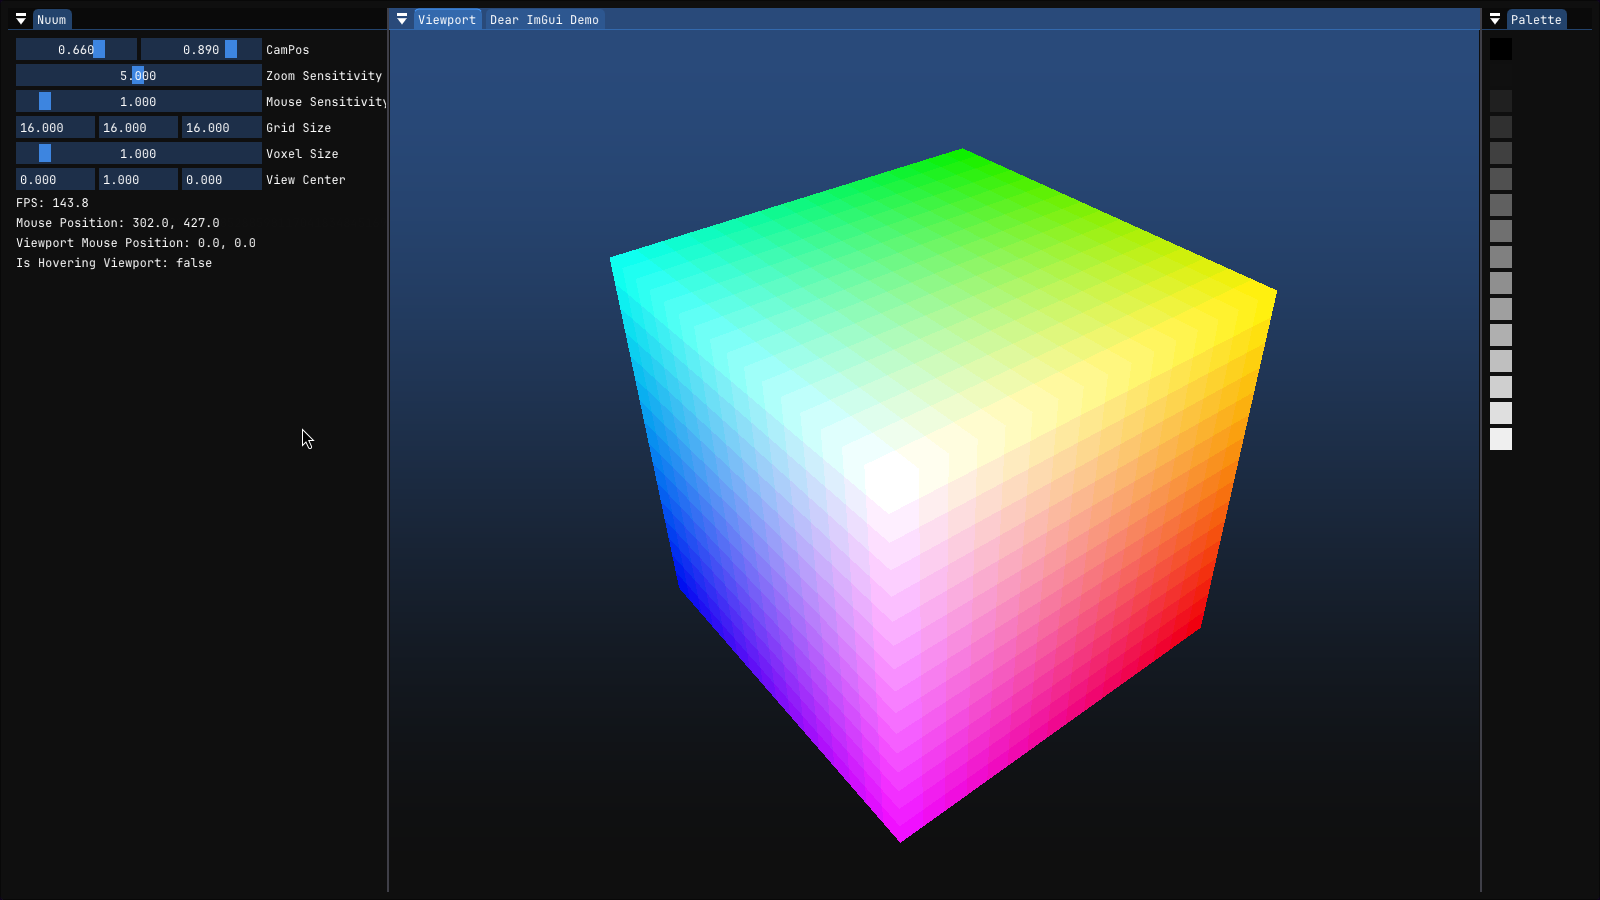
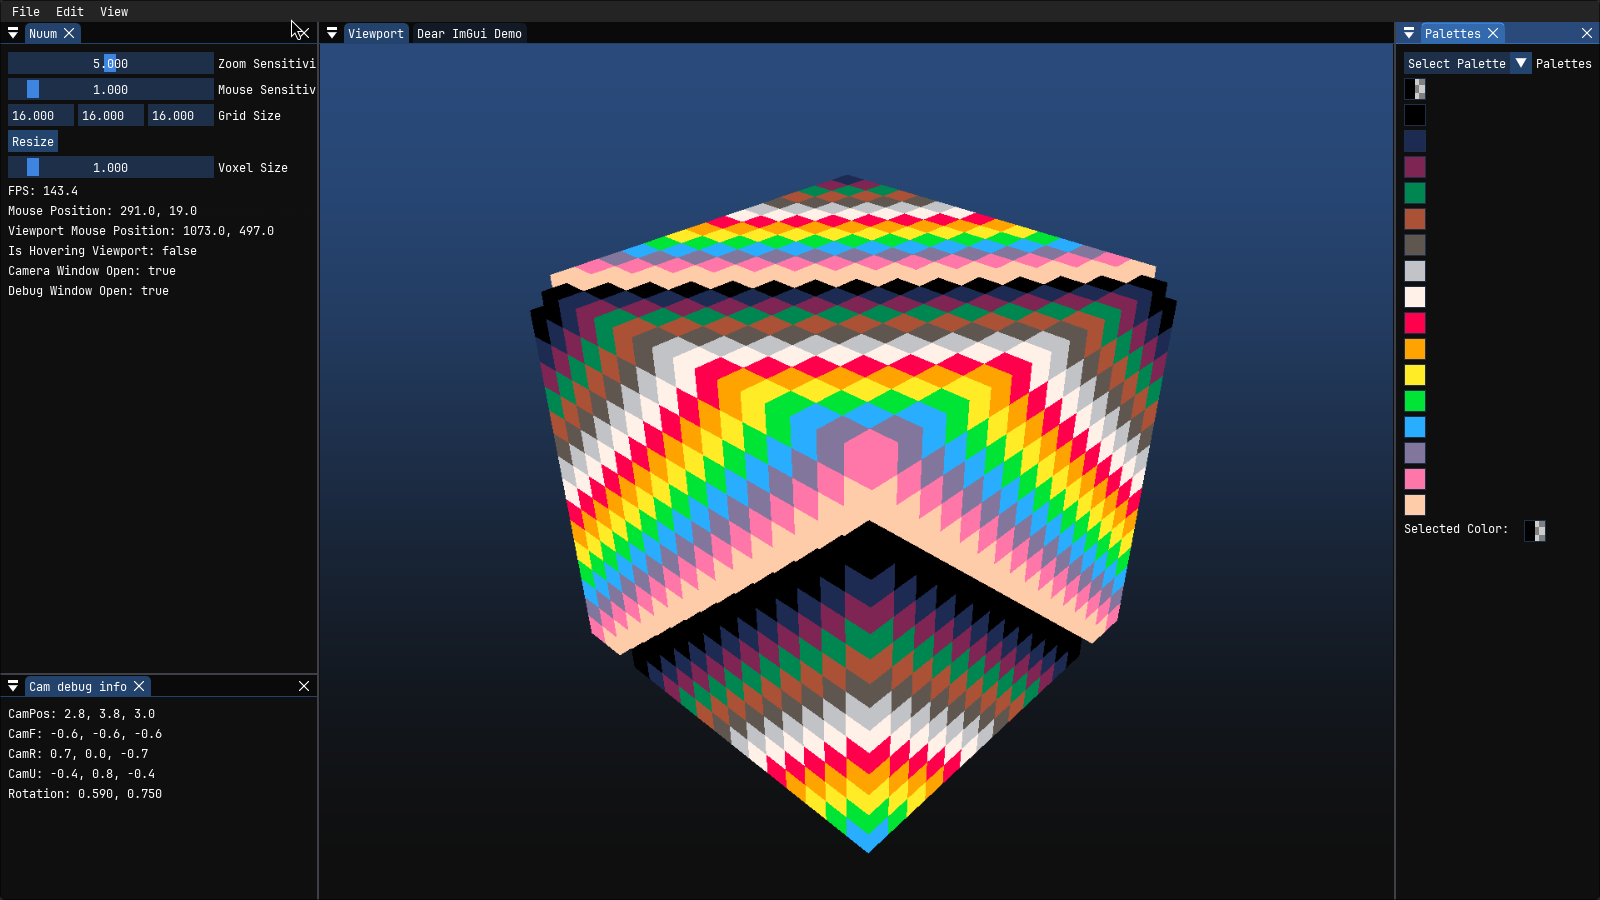
feat: Dynamic Palette Colors

diff --git a/src/PaletteManager.cpp b/src/PaletteManager.cpp
@@ -1,0 +1,113 @@
+#include "PaletteManager.hpp"
+#include <bgfx/bgfx.h>
+#include <imgui.h>
+#include <vector>
+
+PaletteManager::PaletteManager() {}
+
+PaletteManager::~PaletteManager() {}
+
+void PaletteManager::Init() {
+    // u_paletteSize =
+    //     bgfx::createUniform("u_paletteSize", bgfx::UniformType::);
+
+    // Initialize with a default palette
+    std::vector<glm::vec4> colors = {
+        {0.000, 0.000, 0.000, 1.0}, {0.114, 0.169, 0.325, 1.0},
+        {0.494, 0.145, 0.325, 1.0}, {0.000, 0.529, 0.318, 1.0},
+        {0.671, 0.322, 0.212, 1.0}, {0.373, 0.341, 0.310, 1.0},
+        {0.761, 0.765, 0.780, 1.0}, {1.000, 0.945, 0.910, 1.0},
+        {1.000, 0.000, 0.302, 1.0}, {1.000, 0.639, 0.000, 1.0},
+        {1.000, 0.925, 0.153, 1.0}, {0.000, 0.894, 0.212, 1.0},
+        {0.161, 0.678, 1.000, 1.0}, {0.514, 0.463, 0.612, 1.0},
+        {1.000, 0.467, 0.659, 1.0}, {1.000, 0.800, 0.667, 1.0}};
+    palettes.emplace_back("Default", std::move(colors));
+    currentPaletteIndex = 0;
+    paletteSize = colors.size();
+
+    paletteLayout.begin()
+        .add(bgfx::Attrib::Position, 4, bgfx::AttribType::Float)
+        .end();
+    paletteBuffer = bgfx::createDynamicVertexBuffer(
+        colors.size(), paletteLayout, BGFX_BUFFER_COMPUTE_READ);
+}
+
+void PaletteManager::RenderWindow(bool* open) {
+    if (open != nullptr && !*open) {
+        return;
+    }
+    ImGui::Begin("Palettes", open);
+    if (ImGui::BeginCombo("Palettes", "Select Palette",
+                          ImGuiComboFlags_WidthFitPreview)) {
+        for (uint32_t i = 0; i < palettes.size(); ++i) {
+            ImGui::PushID(i);
+            if (ImGui::Selectable(
+                    palettes[i].getName().c_str(),
+                    palettes[currentPaletteIndex].getSelectedIndex() == i)) {
+                currentPaletteIndex = i;
+            }
+            ImGui::PopID();
+        }
+        ImGui::EndCombo();
+    }
+    auto& colors = palettes[currentPaletteIndex].getColors();
+
+    for (uint32_t i = 0; i < colors.size(); ++i) {
+        ImGui::PushID(i);
+        // no inputs, no label, alpha preview half, no tooltip
+        ImGui::ColorEdit4(std::to_string(i).c_str(), &colors[i][0],
+                          ImGuiColorEditFlags_NoInputs |
+                              ImGuiColorEditFlags_NoLabel |
+                              ImGuiColorEditFlags_AlphaPreviewHalf |
+                              ImGuiColorEditFlags_NoTooltip);
+        // Right-click to select color
+        if (ImGui::IsItemHovered() && ImGui::IsMouseClicked(1)) {
+            palettes[currentPaletteIndex].setSelectedColorIndex(i);
+        }
+        ImGui::PopID();
+    }
+    // selected color
+    ImGui::Text("Selected Color: ");
+    ImGui::SameLine();
+    const glm::vec4& selectedColor =
+        palettes[currentPaletteIndex].getSelectedColor();
+    ImGui::ColorButton("Selected Color",
+                       ImVec4(selectedColor.r, selectedColor.g, selectedColor.b,
+                              selectedColor.a),
+                       ImGuiColorEditFlags_NoInputs |
+                           ImGuiColorEditFlags_NoLabel |
+                           ImGuiColorEditFlags_AlphaPreviewHalf);
+
+    ImGui::End();
+}
+
+void PaletteManager::UpdateColorData() {
+    // auto paletteSize = static_cast<uint32_t>(currentPalette.size());
+    // bgfx::setUniform(u_paletteSize, &paletteSize);
+    std::vector<glm::vec4>& currentPalette =
+        palettes[currentPaletteIndex].getColors();
+
+    if (!bgfx::isValid(paletteBuffer) || currentPalette.size() != paletteSize) {
+        if (bgfx::isValid(paletteBuffer)) {
+            bgfx::destroy(paletteBuffer);
+        }
+
+        paletteSize = currentPalette.size();
+        paletteBuffer = bgfx::createDynamicVertexBuffer(
+            paletteSize, paletteLayout, BGFX_BUFFER_COMPUTE_READ);
+    }
+
+    bgfx::update(paletteBuffer, 0,
+                 bgfx::copy(currentPalette.data(),
+                            currentPalette.size() * sizeof(glm::vec4)));
+    bgfx::setBuffer(2, paletteBuffer, bgfx::Access::Read);
+}
+
+void PaletteManager::AddPalette(const Palette& palette) {}
+
+void PaletteManager::AddPalette(const std::string& name,
+                                const std::vector<glm::vec3> colors) {}
+
+void PaletteManager::RemovePalette(u_int32_t index) {}
+
+void PaletteManager::SetCurrentPalette(u_int32_t index) {}

diff --git a/src/Nuum.cpp b/src/Nuum.cpp
@@ -8,7 +8,6 @@
 #include <SDL_syswm.h>
 #include <SDL_video.h>
 #include <iostream>
-#include <vector>
 
 #include "imgui_impl_sdl2.h"
 #include "imgui_impl_bgfx.h"
@@ -158,52 +157,6 @@ void Nuum::RenderViewportWindow() {
     ImGui::PopStyleVar();
 }
 
-void Nuum::RenderPaletteWindow() {
-    if (!openPaletteWindow) {
-        return;
-    }
-    ImGui::Begin("Palettes", &openPaletteWindow);
-    if (ImGui::BeginCombo("Palettes", "Select Palette",
-                          ImGuiComboFlags_WidthFitPreview)) {
-        for (uint32_t i = 0; i < palettes.size(); ++i) {
-            ImGui::PushID(i);
-            if (ImGui::Selectable(palettes[i].getName().c_str(),
-                                  selectedPaletteIndex == i)) {
-                selectedPaletteIndex = i;
-                voxelManager.setPalette(&palettes[selectedPaletteIndex]);
-            }
-            ImGui::PopID();
-        }
-        ImGui::EndCombo();
-    }
-    auto& colors = palettes[selectedPaletteIndex].getColors();
-
-    for (uint32_t i = 0; i < colors.size(); ++i) {
-        ImGui::PushID(i);
-        // no inputs, no label, alpha preview half, no tooltip
-        ImGui::ColorEdit4(std::to_string(i).c_str(), &colors[i][0],
-                          ImGuiColorEditFlags_NoInputs |
-                              ImGuiColorEditFlags_NoLabel |
-                              ImGuiColorEditFlags_AlphaPreviewHalf |
-                              ImGuiColorEditFlags_NoTooltip);
-        if (ImGui::IsItemHovered() && ImGui::IsMouseClicked(1)) {
-            selectedColorIndex = i;
-        }
-        ImGui::PopID();
-    }
-    // selected color
-    ImGui::Text("Selected Color: ");
-    ImGui::SameLine();
-    ImGui::ColorButton(
-        "Selected Color",
-        ImVec4(colors[selectedColorIndex][0], colors[selectedColorIndex][1],
-               colors[selectedColorIndex][2], colors[selectedColorIndex][3]),
-        ImGuiColorEditFlags_NoInputs | ImGuiColorEditFlags_NoLabel |
-            ImGuiColorEditFlags_AlphaPreviewHalf);
-
-    ImGui::End();
-}
-
 void Nuum::RenderDebugWindow() {
     if (!openDebugWindow) {
         return;
@@ -342,10 +295,10 @@ int Nuum::Init(int argc, char** argv) {
         return 1;
     }
 
-    SDL_DisplayMode displayMode;
-    SDL_GetDesktopDisplayMode(0, &displayMode);
-    width = displayMode.w * 0.6f;
-    height = displayMode.h * 0.6f;
+    // SDL_DisplayMode displayMode;
+    // SDL_GetDesktopDisplayMode(0, &displayMode);
+    // width = displayMode.w * 0.6f;
+    // height = displayMode.h * 0.6f;
     SDL_Window* window =
         SDL_CreateWindow("Nuum", SDL_WINDOWPOS_CENTERED, SDL_WINDOWPOS_CENTERED,
                          width, height, SDL_WINDOW_RESIZABLE);
@@ -362,12 +315,8 @@ int Nuum::Init(int argc, char** argv) {
     viewport = ImGui::GetMainViewport();
 
     voxelManager.Init(16, 16, 16);
-    std::vector<glm::vec4> colors = {
-        {1.0f, 0.0f, 0.0f, 1.0f}, {0.0f, 1.0f, 0.0f, 1.0f},
-        {0.0f, 0.0f, 1.0f, 1.0f}, {1.0f, 1.0f, 0.0f, 1.0f},
-        {1.0f, 0.5f, 0.5f, 1.0f}, {0.5f, 1.0f, 1.0f, 1.0f}};
-    palettes.emplace_back("Default", std::move(colors));
-    voxelManager.setPalette(&palettes[0]);
+    paletteManager.Init();
+    // voxelManager.setPalette(&palettes[0]);
 
     camera.Init();
 
@@ -388,7 +337,7 @@ void Nuum::Run() {
         RenderViewportWindow();
         camera.RenderDebugWindow(&openCameraWindow);
         RenderDebugWindow();
-        RenderPaletteWindow();
+        paletteManager.RenderWindow(&openPaletteWindow);
 
         ImGui::Render();
         ImGui_Implbgfx_RenderDrawLists(ImGui::GetDrawData());
@@ -398,6 +347,7 @@ void Nuum::Run() {
 
         // Render
         bgfx::touch(0);
+        paletteManager.UpdateColorData();
         RenderViewport();
 
         bgfx::frame();

diff --git a/src/VoxelManager.cpp b/src/VoxelManager.cpp
@@ -26,7 +26,7 @@ void VoxelManager::Init(uint32_t width, uint32_t height, uint32_t depth) {
         for (int y = 0; y < height; ++y) {
             for (int x = 0; x < width; ++x) {
                 int index = (z * height * width + y * width + x); // R32F
-                voxelArray[index] = (index % 7)/ 6.0f;
+                voxelArray[index] = (index % 17)/ 255.0f;
             }
         }
     }
@@ -69,7 +69,6 @@ void VoxelManager::setVoxel(uint32_t x, uint32_t y, uint32_t z,
     voxColor[0] = paletteColor.r * 255; // R
     voxColor[1] = paletteColor.g * 255; // G
     voxColor[2] = paletteColor.b * 255; // B
-    voxColor[3] = paletteColor.a * 255; // A
     std::cout << "Set voxel at: " << x << ", " << y << ", " << z
               << " to color: " << +voxColor[0] << ", " << +voxColor[1] << ", "
               << +voxColor[2] << ", " << +voxColor[3] << std::endl;

diff --git a/include/PaletteManager.hpp b/include/PaletteManager.hpp
@@ -1,0 +1,32 @@
+#pragma once
+
+#include "Palette.hpp"
+#include <bgfx/bgfx.h>
+#include <vector>
+
+class PaletteManager {
+private:
+    std::vector<Palette> palettes;
+    uint32_t currentPaletteIndex;
+    uint32_t paletteSize;
+
+    bgfx::UniformHandle u_paletteSize;
+    bgfx::DynamicVertexBufferHandle paletteBuffer;
+    bgfx::VertexLayout paletteLayout;
+
+public:
+    PaletteManager();
+    PaletteManager(const PaletteManager&) = delete;
+    PaletteManager& operator=(const PaletteManager&) = delete;
+    ~PaletteManager();
+
+    void RenderWindow(bool* open);
+    void UpdateColorData();
+
+    void Init();
+    void AddPalette(const Palette& palette);
+    void AddPalette(const std::string& name, const std::vector<glm::vec3> colors);
+    void RemovePalette(u_int32_t index);
+    void SetCurrentPalette(u_int32_t index);
+
+};

diff --git a/include/Nuum.hpp b/include/Nuum.hpp
@@ -2,11 +2,11 @@
 
 #include "Camera.hpp"
 #include "VoxelManager.hpp"
+#include "PaletteManager.hpp"
 #include "imgui.h"
 #include <SDL.h>
 #include <bgfx/bgfx.h>
 #include <glm/glm.hpp>
-#include <vector>
 
 class Nuum {
   private:
@@ -36,9 +36,7 @@ class Nuum {
 
     Camera camera;
     VoxelManager voxelManager;
-    std::vector<Palette> palettes;
-    uint32_t selectedPaletteIndex = 0;
-    uint32_t selectedColorIndex = 0;
+    PaletteManager paletteManager;
 
     void InitBgfx(SDL_Window* window);
     void InitImGui(SDL_Window* window);
@@ -51,7 +49,6 @@ class Nuum {
     void HandleEvents();
     void RenderDockspace();
     void RenderDebugWindow();
-    void RenderPaletteWindow();
 
   public:
     Nuum();

diff --git a/include/Palette.hpp b/include/Palette.hpp
@@ -20,7 +20,13 @@ class Palette {
     Palette& operator=(const Palette&) = default;
     ~Palette();
 
+    inline void setSelectedColorIndex(uint32_t index) {
+        if (index < colors.size()) {
+            selectedColorIndex = index;
+        }
+    }
     inline const std::string& getName() const { return name; }
     inline std::vector<glm::vec4>& getColors() { return colors; }
-    inline uint32_t getSelectedColor() const { return selectedColorIndex; }
+    inline const glm::vec4& getSelectedColor() const { return colors[selectedColorIndex]; }
+    inline const uint32_t getSelectedIndex() const { return selectedColorIndex; }
 };
